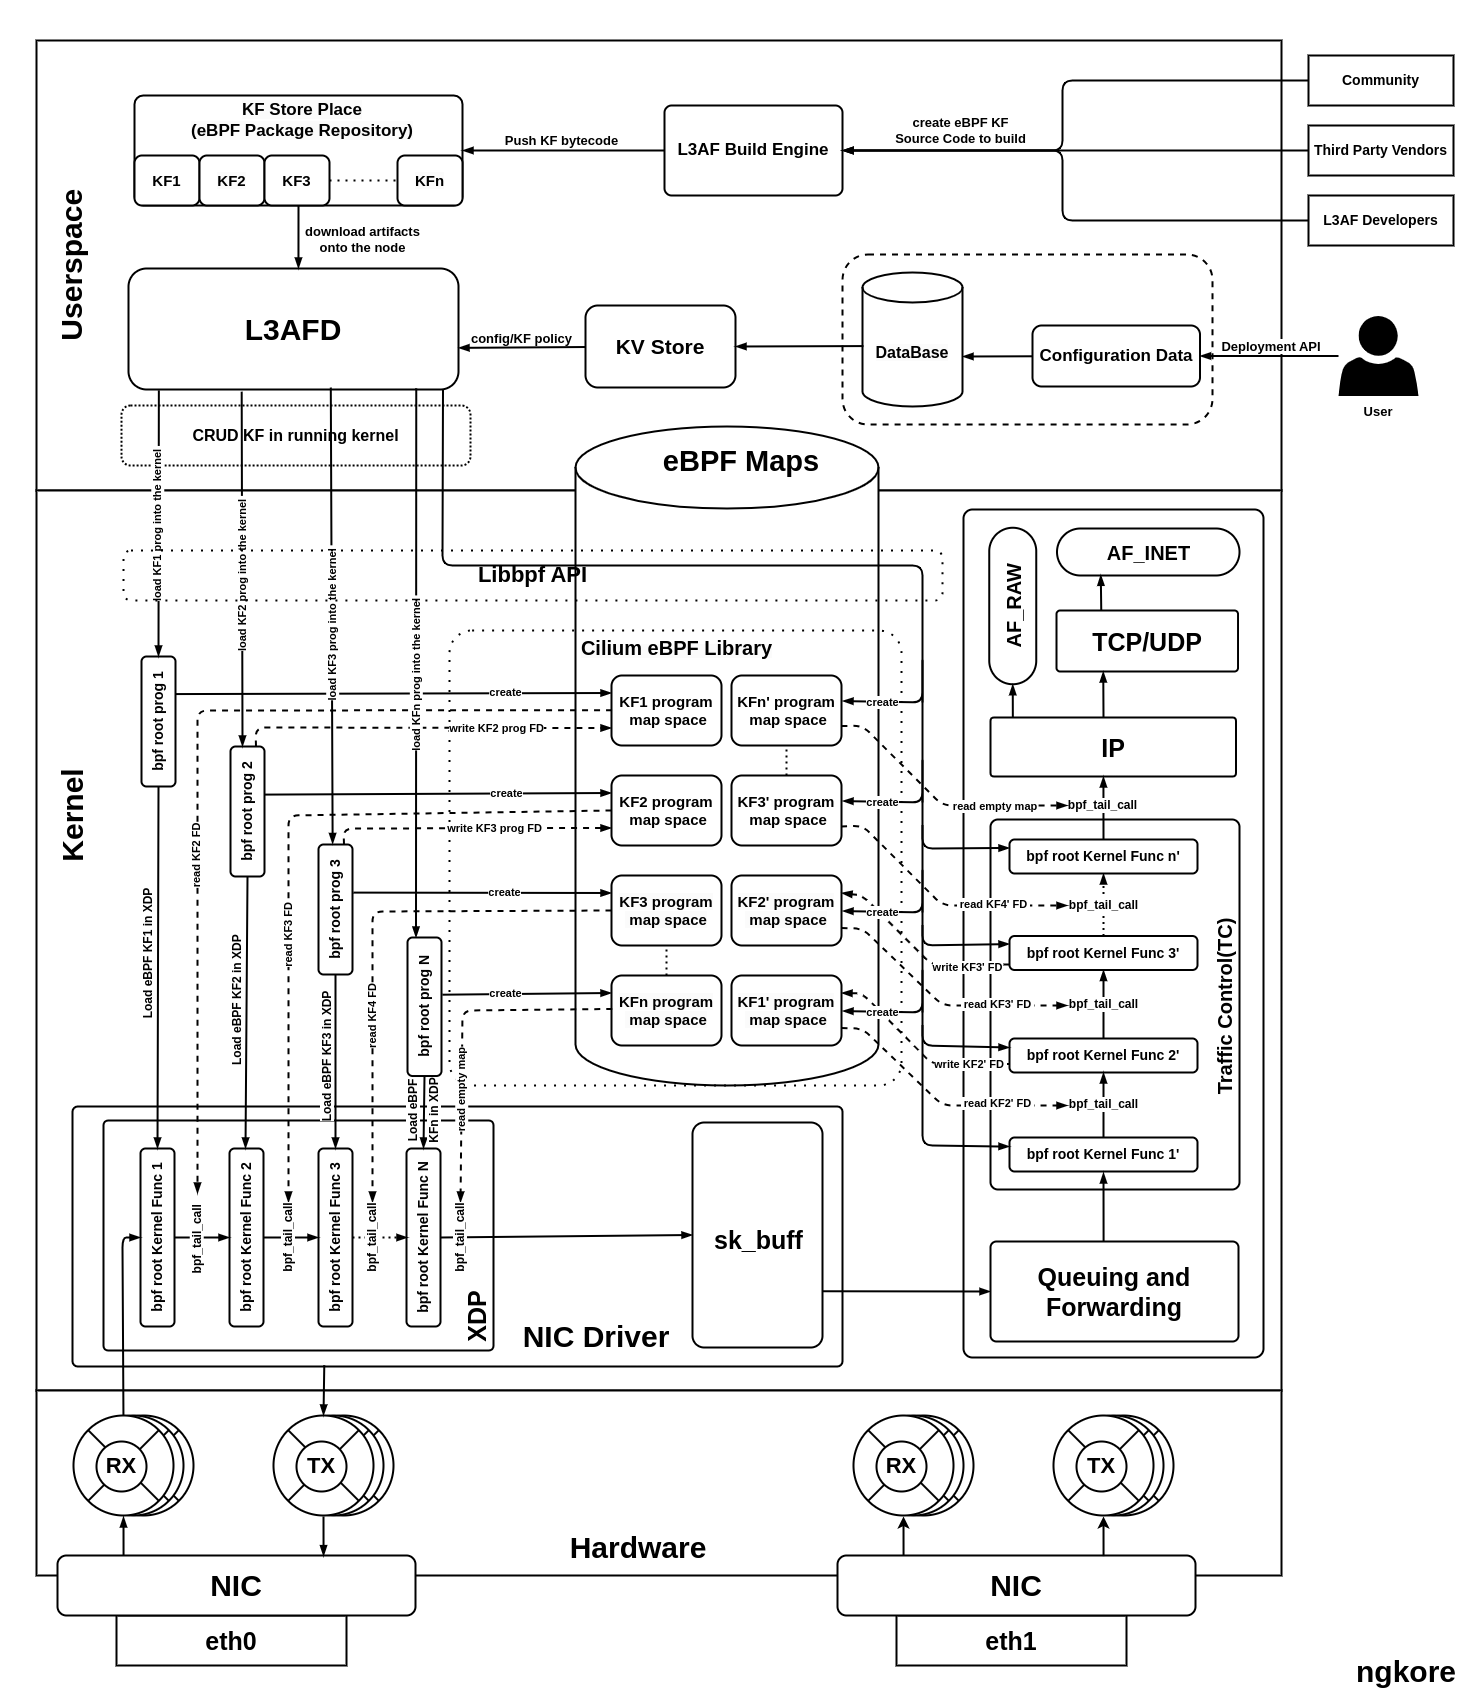
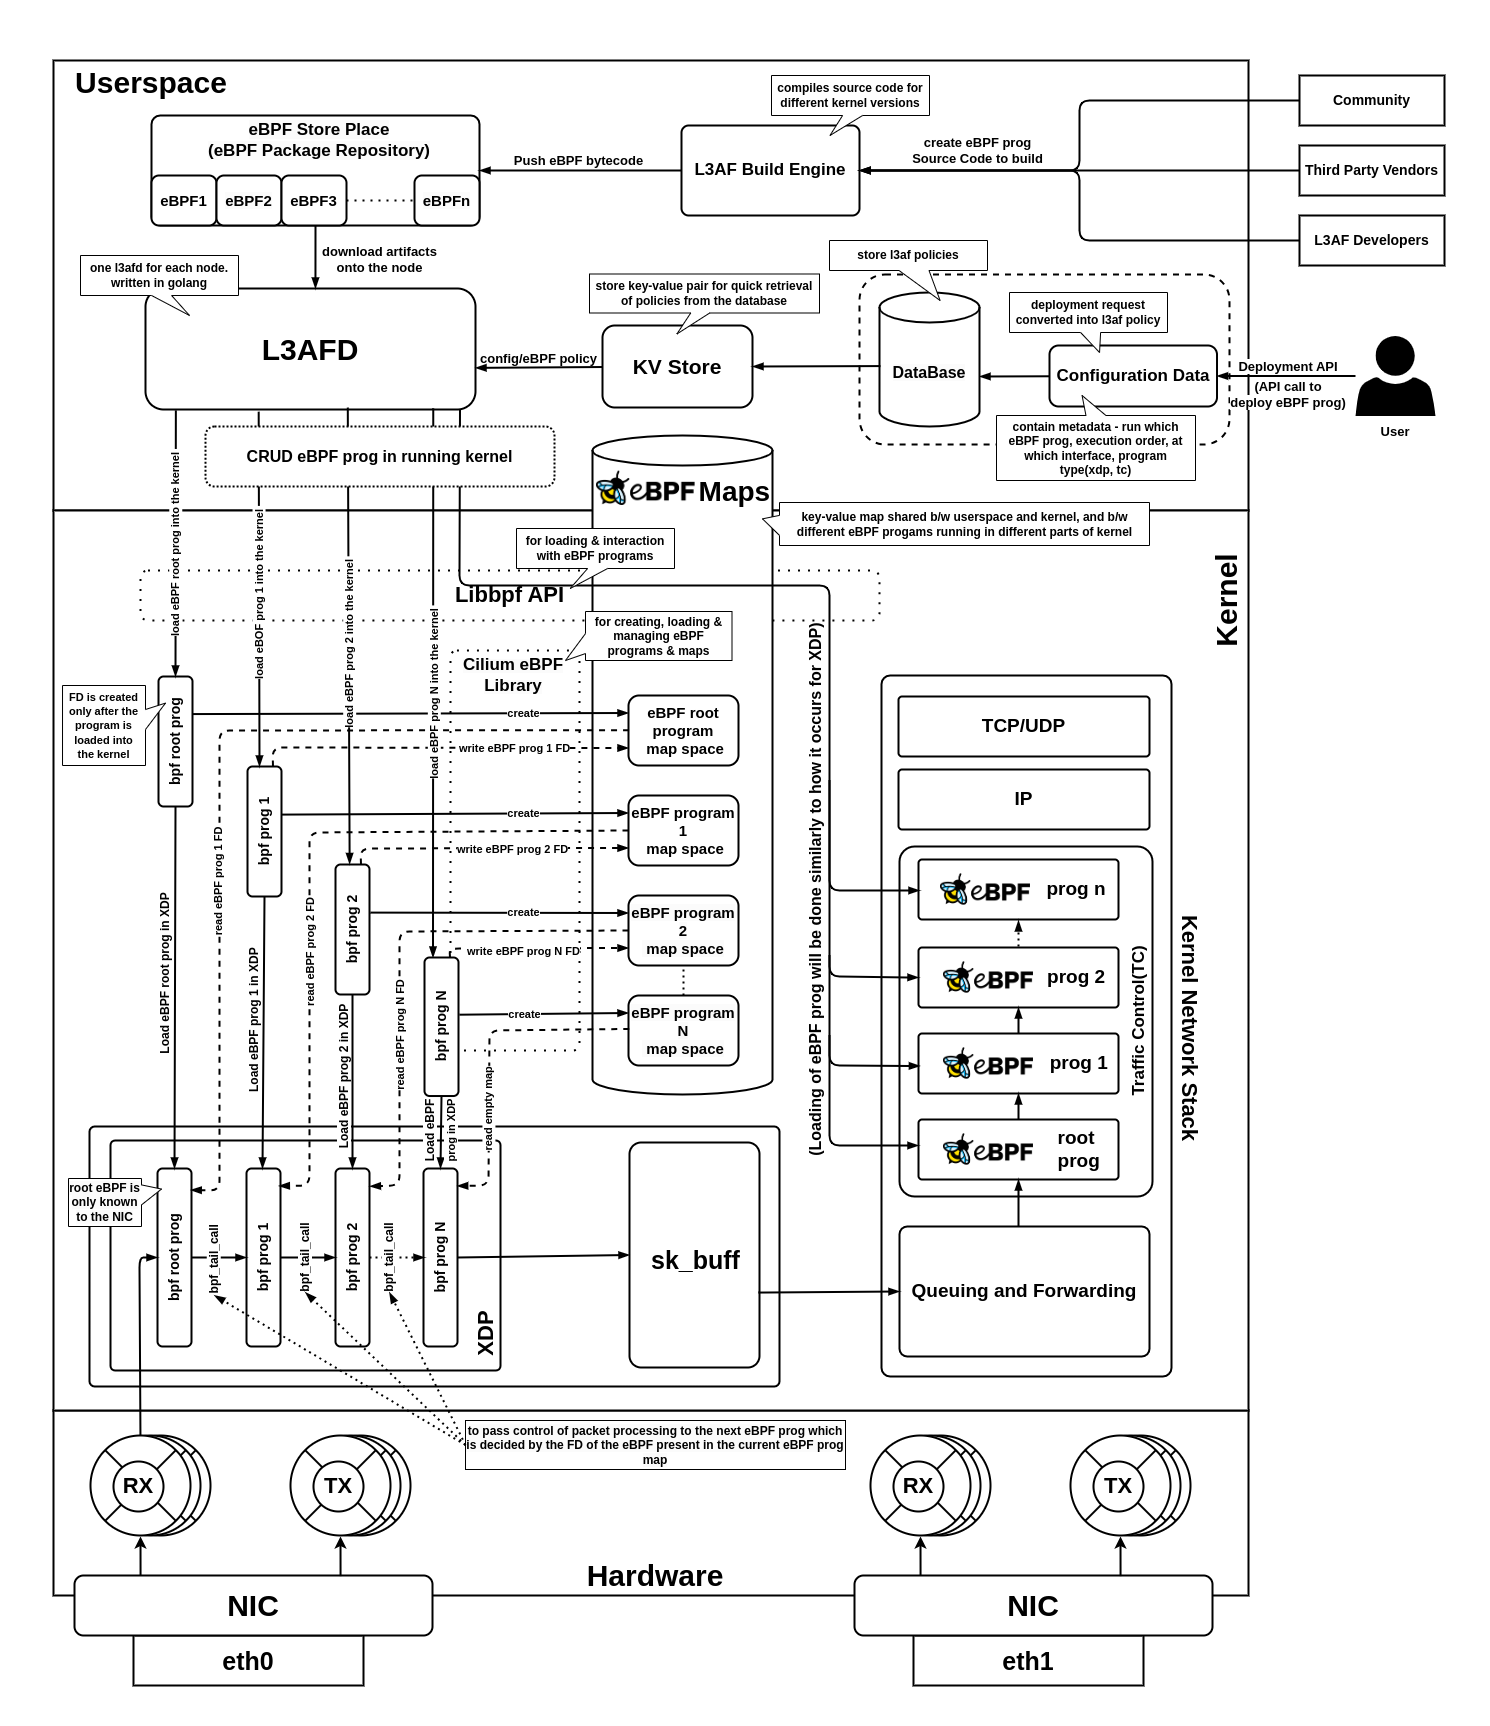
changing KF to eBPF

diff --git a/docs/l3af/l3af.rst b/docs/l3af/l3af.rst
@@ -15,12 +15,12 @@ L3AF Architecture
   :width: 800
   :alt: Alternative text
 
-1. **User API Call**: The process starts when a user sends an API call containing configuration data for the deployment of eBPF Kernel Functions (*KFs*) on the kernel, specifically at XDP and TC hooks.
+1. **User API Call**: The process starts when a user sends an API call containing configuration data for the deployment of eBPF programs on the kernel, specifically at XDP and TC hooks.
 2. **Policy Formation**: The configuration data from the API call is transformed into specific policies, which are then stored in a database for future use.
 3. **Data Retrieval by L3AFD**: L3AFD, leveraging a key-value (*KV*) store, quickly retrieves the stored configuration data from the database.
-4. **eBPF Program Download**: L3AFD downloads pre-built eBPF programs (*KFs*) from a user-configured repository (*eBPF Package Repository*). These programs are provided by a diverse community of developers and are verified prior to installation in the KF store.
+4. **eBPF Program Download**: L3AFD downloads pre-built eBPF programs from a user-configured repository (*eBPF Package Repository*). These programs are provided by a diverse community of developers and are verified prior to installation in the eBPF store.
 5. **L3AFD Role**: As the main component of the L3AF control plane, L3AFD manages and orchestrates multiple eBPF programs.
-6. **eBPF Program Loading**: The L3AFD loads these eBPF programs into the kernel using the libbpf library. The file descriptors of the programs are stored in a previous KF map, keeping track of the sequence of programs that need to run in the process. The process of creating a separate space in the eBPF Maps and storing the File descriptor into it, is carried out by using Cilium eBPF library.
+6. **eBPF Program Loading**: The L3AFD loads these eBPF programs into the kernel using the libbpf library. The file descriptors of the programs are stored in a previous eBPF map, keeping track of the sequence of programs that need to run in the process. The process of creating a separate space in the eBPF Maps and storing the File descriptor into it, is carried out by using Cilium eBPF library.
 7. **Program Execution**: Only the first eBPF program in this sequence is visible to the NIC. The rest are invoked in sequence via a bpf_tail_call, which uses the stored file descriptors in the current program's map.
 8. **Packet Processing**: Each packet is sequentially processed through each eBPF program and then passed on to the network stack for further processing. Similar processing occurs at the TC hook of the network stack.
 9. **Packet Delivery**: Finally, the processed packet is sent to the destination application for any further necessary processing.
